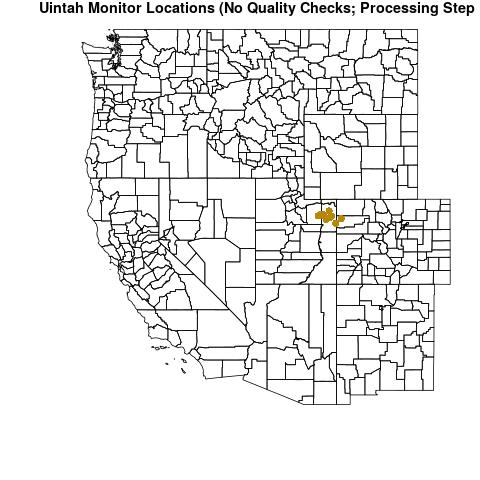
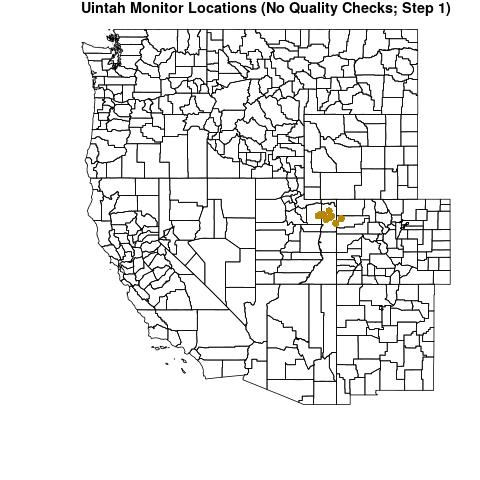
PM2.5 processing step 1

Changed region(s): [[0.0625, 0.0, 1.0, 0.0312]]

diff --git a/LaTeX_documentation/Code_Outputs/Rgenerated_PM25Source3TSstep1Images.tex b/LaTeX_documentation/Code_Outputs/Rgenerated_PM25Source3TSstep1Images.tex
@@ -9,6 +9,6 @@
 \begin{figure} 
 \centering  
 \includegraphics[width=0.77\textwidth]{Code_Outputs/PM25Source3TSstep1_MapUintahLocations.jpg} 
-\caption{\label{fig:PM25Source3TSstep1MapUintahLocations}Uintah Monitor Locations (No Quality Checks; Processing Step 1)} 
+\caption{\label{fig:PM25Source3TSstep1MapUintahLocations}Uintah Monitor Locations (No Quality Checks; Step 1)} 
 \end{figure} 
  
